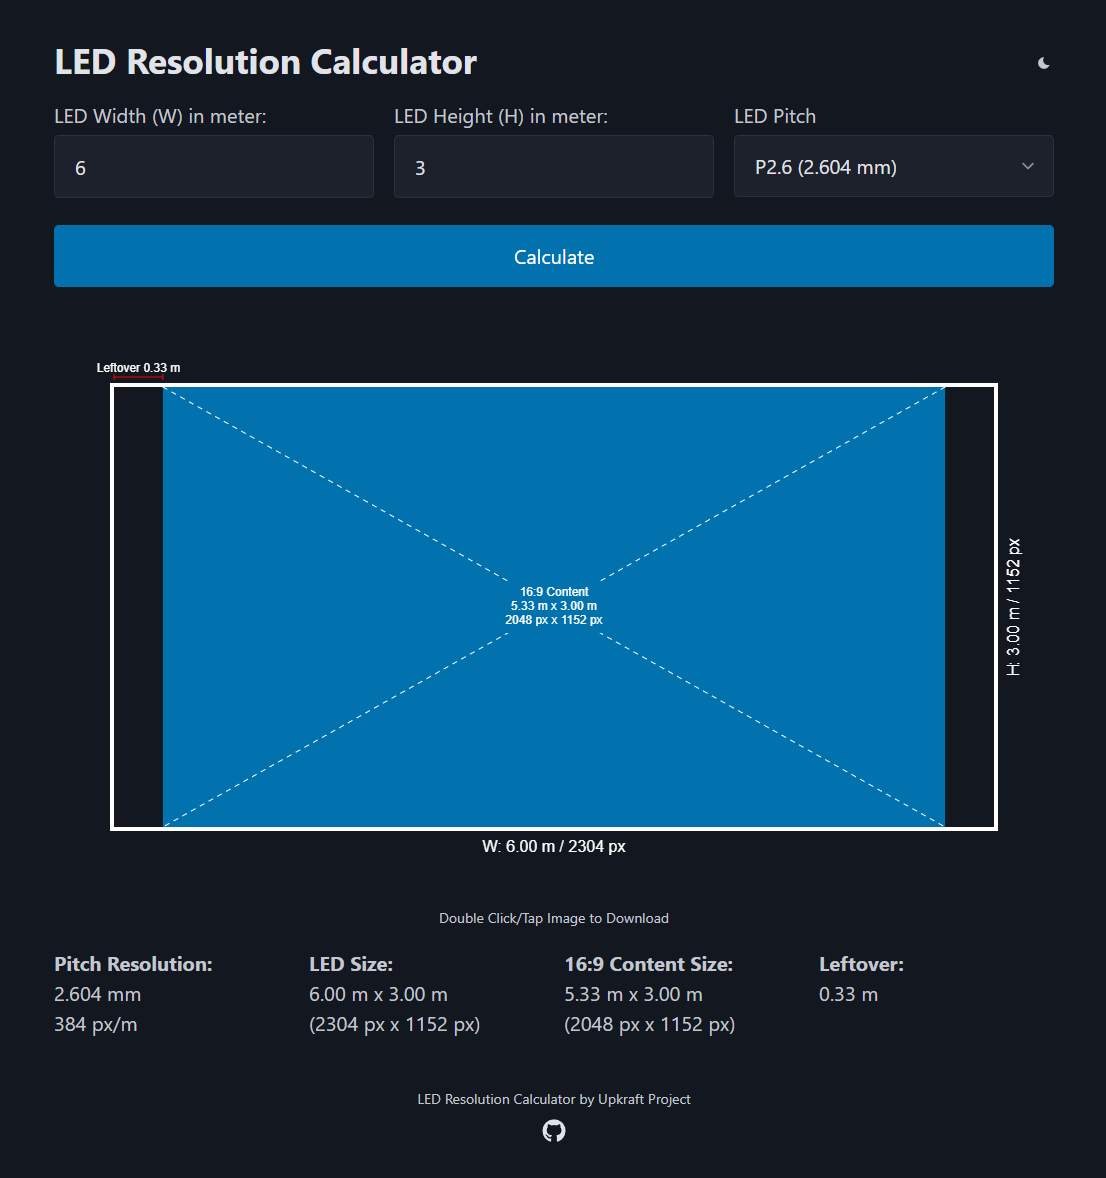
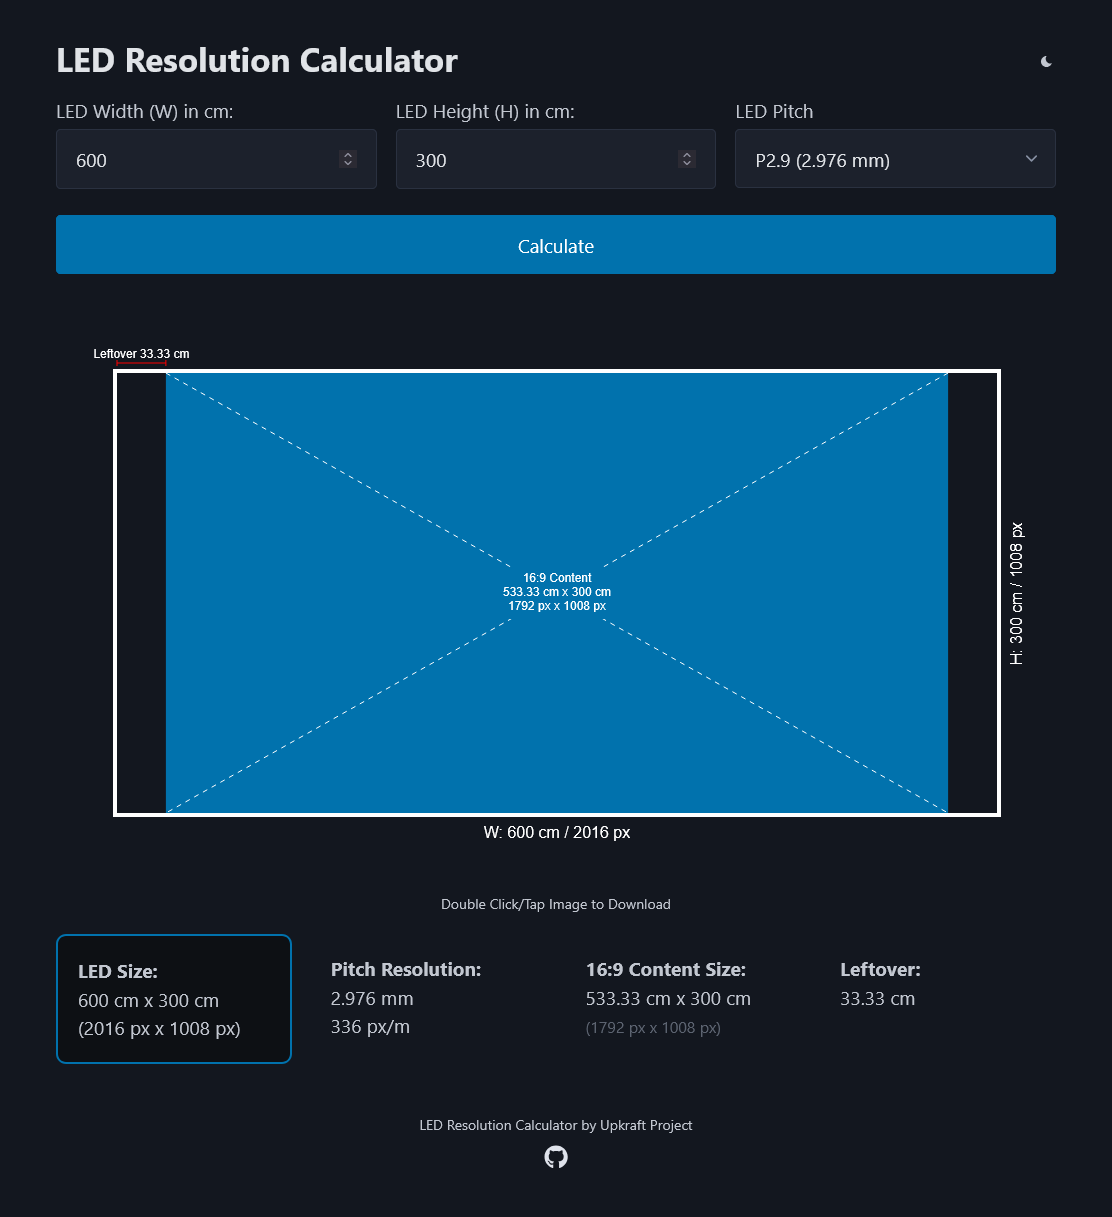
update readme

diff --git a/readme.md b/readme.md
@@ -1,5 +1,5 @@
 # LED Resolution Calculator
 
-A simple tool for calculating LED screen resolution based on physical dimensions (in meters) and pixel pitch (in millimeters) — with a preview of 16:9 content display.
+A simple tool for calculating LED screen resolution based on physical dimensions (in centimeters) and pixel pitch (in millimeters) — with a preview of 16:9 content display.
 
 ![Screenshot](screenshot.png)
